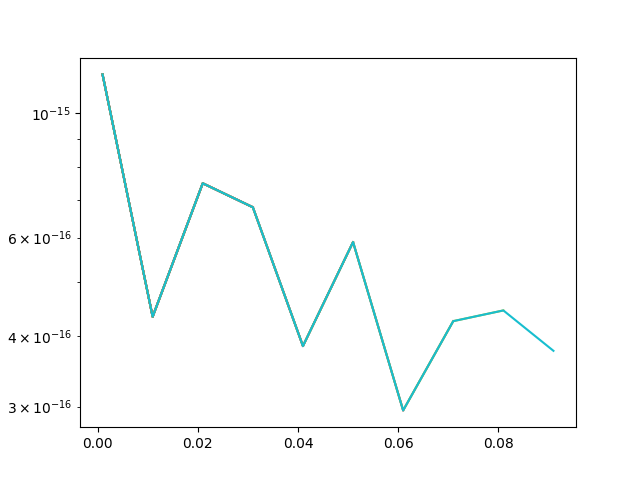
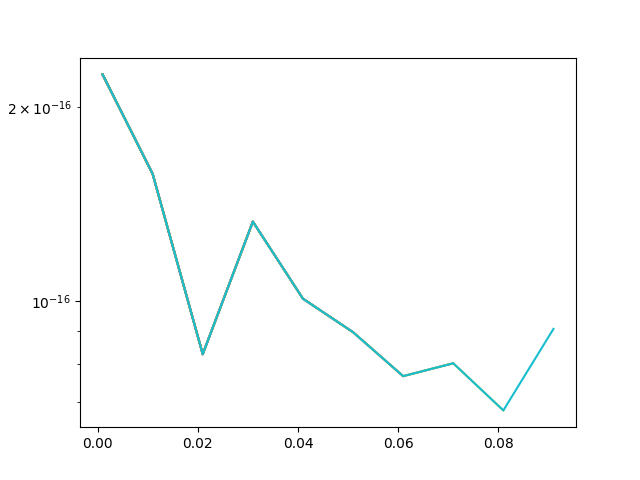
adding multiprocessing for an_osc.py

diff --git a/code/an_osc.py b/code/an_osc.py
@@ -5,10 +5,9 @@ sys.path.append(str(progspath / 'mytools'))
 import matplotlib.pyplot as plt
 import tools as tls
 import numpy as np
-import dm_tools as dmt
 import scipy.optimize as scp
 import time
-import decimal as dec
+import multiprocessing
 import parameters as par
 
 etaum = 0
@@ -36,7 +35,7 @@ def calc_single(mjd, om):
     global etaum
     global sd
 
-    etau = 10/om  # rad/s
+    etau = om  # rad/s
     etaum = etau*86400
     end_mjd = mjd+0.05
     durm = end_mjd-mjd
@@ -99,35 +98,32 @@ for lab in par.labs:
         d[lab].alphnorm(atom=par.inf[lab]['atom'])  #convert AOM freq to da/a
         #sd[lnum[lab]]=d[lab].std()
 
-
+def calc_for_single_mjd(p):
+    w = calc_single(p['mjd'], p['Om'])
+    if w!=None:
+        print(p['mjd'], w[0], w[1], w[2], w[3])
+        return (p['mjd'], w[0], w[1], w[2], w[3])
+    else:
+        print( None )
+        return None
+    
 #Oms = [0.1, 0.01, 0.001]
 Oms = [ 0.02, 0.002]
 Oms = np.arange(0.001, 0.1, 0.01)
 outs = []
 
-mjds = np.arange(58658,58670 ,0.005)  #co ok 4s
 for Om in Oms:
         start = time.time()
-        mjd_t = []
-        out_t = []
-        err_t = []
-        err2_t = []
-        clocks_t = []
-        for mjd in mjds:
-            w = calc_single(mjd, Om)
-            if w!=None:
-                mjd_t.append(mjd)
-                out_t.append(w[0])
-                err_t.append(w[1])
-                err2_t.append(w[2])
-                clocks_t.append(w[3])
-                # print(Om, mjd, ' -> ', w[0], w[1], w[3])
-        # print(max(np.abs(out_t)), min(np.abs(out_t)) )
-        
-        Ts = 10
+        params = [{'mjd':mjd, 'Om':Om} for mjd in par.mjds]
+        # w = calc_single(mjd, Om)
+        with multiprocessing.Pool() as pool:
+            out = pool.map(calc_for_single_mjd, params)
+        out = [ x for x in out if x!=None]   
+        out = np.array(out) 
+        print(out)       
+        # Ts = 10
         tosc = 1./Om
-
-        outs.append([Om, max(np.abs(out_t)),  min(np.abs(out_t)), ])
+        outs.append([Om, max(np.abs(out[:,1])),  min(np.abs(out[:,1])), ])
         npout = np.array(outs)
         np.save('osc.npy', npout)
         np.savetxt('osc.txt', npout)

diff --git a/code/parameters.py b/code/parameters.py
@@ -33,9 +33,10 @@ Ds = [ x*v for x in range(10,301)]
 camp = 'c1'
 
 mjds_dict ={
-    'c1' : np.arange(58658,58670 ,0.00005),  #co ok 4s
-    'c2' : np.arange(58916,58935 ,0.00005),  #co ok 4s
-    #'c2' : np.arange(58917.8,58919 ,0.00005),  # for fast tests
+    # 'c1' : np.arange(58658,58670 ,0.00005),  #every 4s
+    'c1' : np.arange(58658,58660 ,0.005),  # for fast tests
+    'c2' : np.arange(58916,58935 ,0.00005),  #every 4s
+    # 'c2' : np.arange(58917.8,58919 ,0.00005),  # for fast tests
 }
 mjds = mjds_dict[camp]
 
